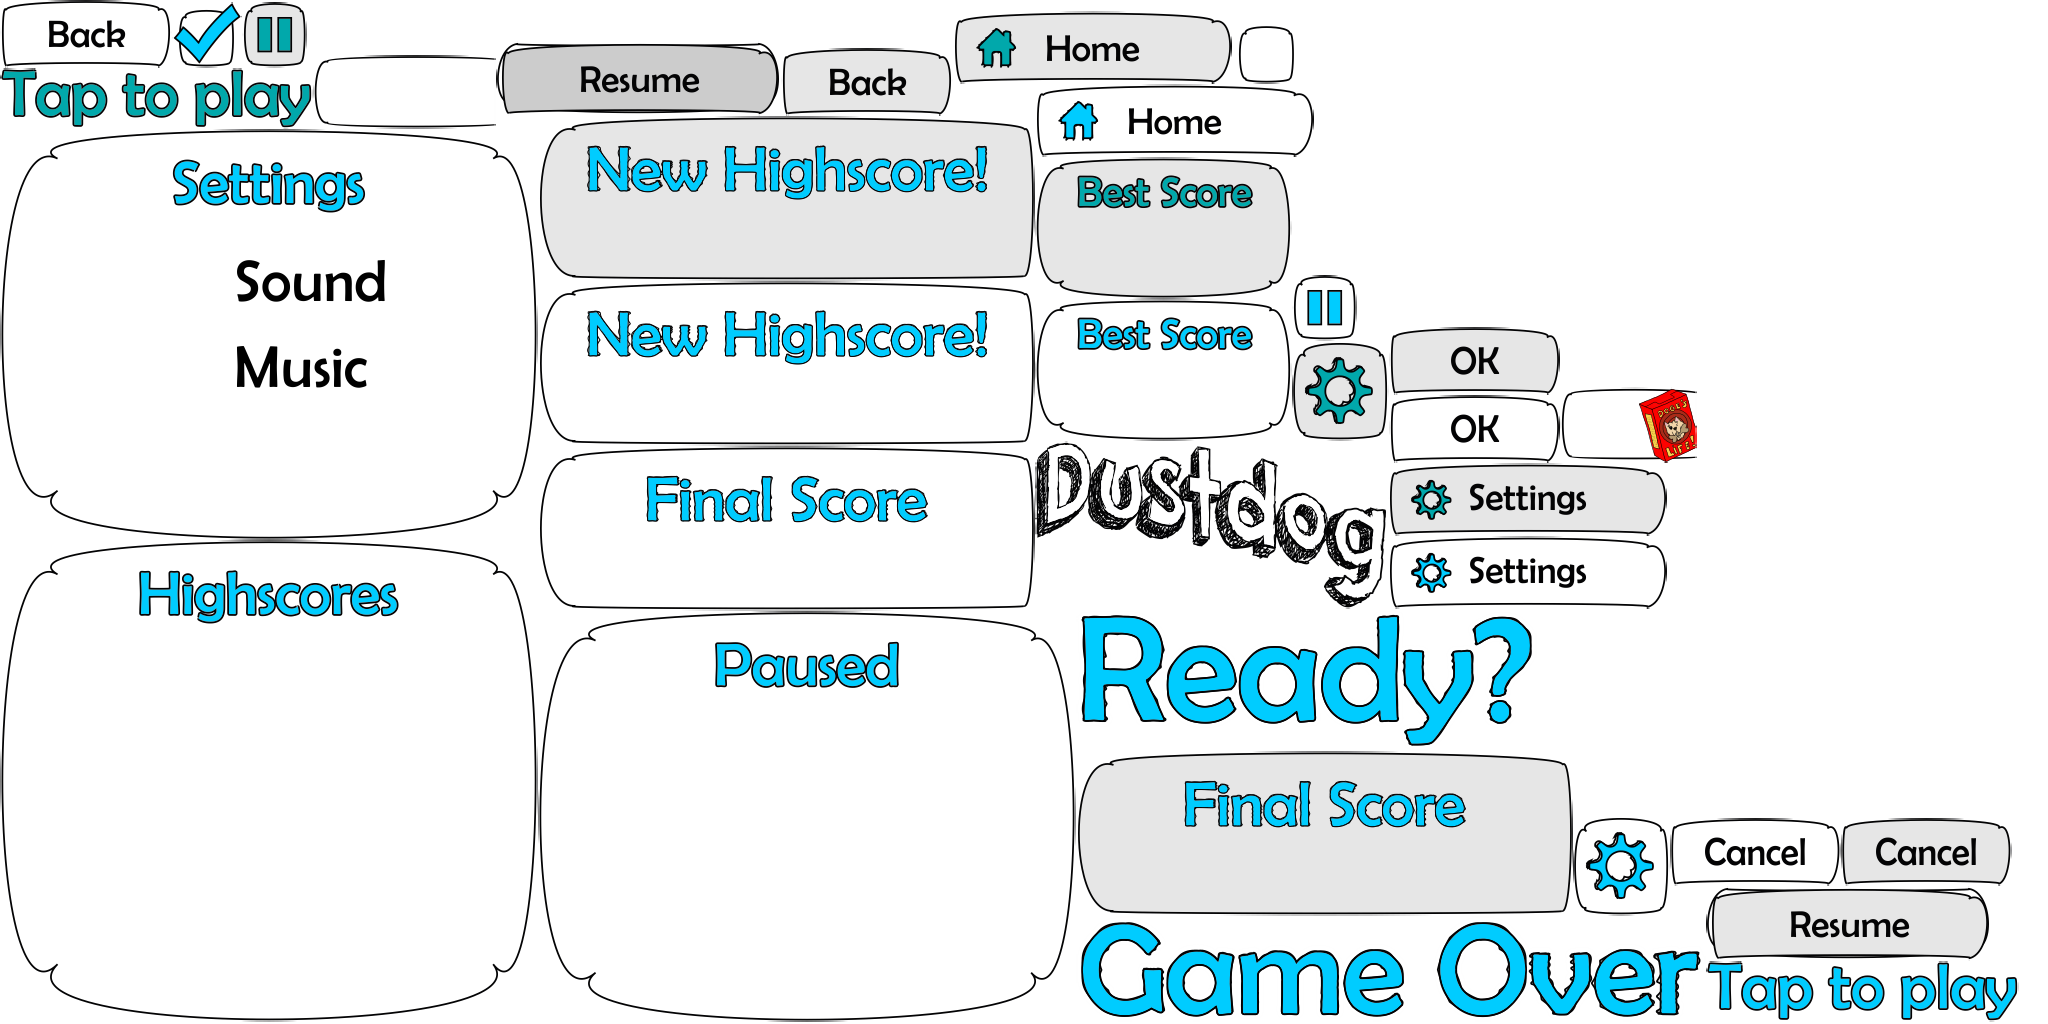
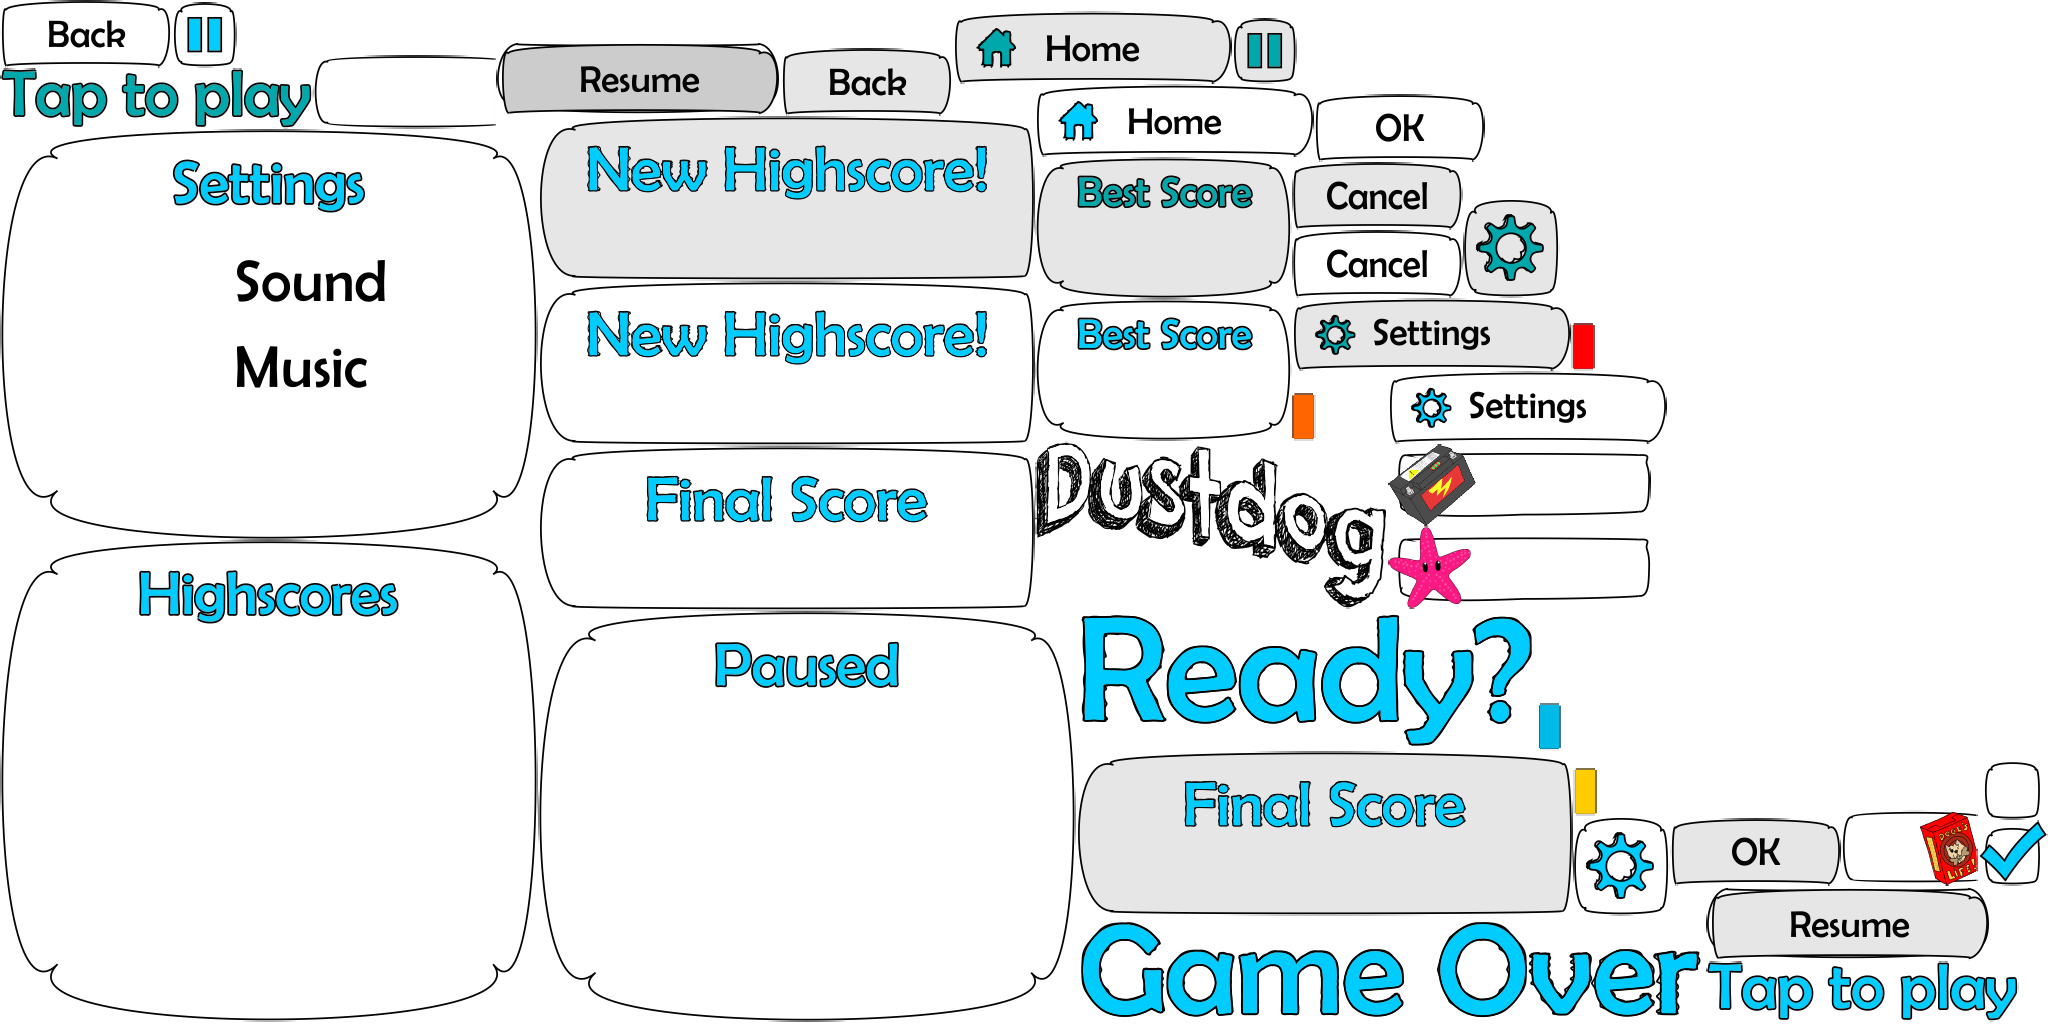
Implement power-up time bars

diff --git a/core/src/br/ufpe/cin/dustdog/screens/GameScreen.java b/core/src/br/ufpe/cin/dustdog/screens/GameScreen.java
@@ -16,6 +16,7 @@ import com.badlogic.gdx.Gdx;
 import com.badlogic.gdx.ScreenAdapter;
 import com.badlogic.gdx.graphics.GL20;
 import com.badlogic.gdx.graphics.OrthographicCamera;
+import com.badlogic.gdx.graphics.g2d.TextureRegion;
 import com.badlogic.gdx.math.Rectangle;
 import com.badlogic.gdx.math.Vector3;
 
@@ -197,11 +198,11 @@ public class GameScreen extends ScreenAdapter {
 				pauseButtonActive = false;
 				Assets.playSound(Assets.clickSound);
 				gameState = GameState.PAUSED;
-				
+
 				// pause game musics (tornado and starfish)
 				if ((Settings.soundEnabled) && (world.tornadoRunning)) Assets.tornadoMusic.pause();
 				if ((Settings.soundEnabled) && (world.starfishRunning)) Assets.starfishMusic.pause();
-				
+
 				return;
 			}
 		}
@@ -214,11 +215,11 @@ public class GameScreen extends ScreenAdapter {
 			Assets.playSound(Assets.clickSound);
 
 			gameState = GameState.PAUSED;
-			
+
 			// pause game musics (tornado and starfish)
 			if ((Settings.soundEnabled) && (world.tornadoRunning)) Assets.tornadoMusic.pause();
 			if ((Settings.soundEnabled) && (world.starfishRunning)) Assets.starfishMusic.pause();
-			
+
 			return;
 		}
 
@@ -303,11 +304,11 @@ public class GameScreen extends ScreenAdapter {
 			backPressedPaused = false;
 
 			gameState = GameState.RUNNING;
-			
+
 			// resume game musics (tornado and starfish)
 			if ((Settings.soundEnabled) && (world.tornadoRunning)) Assets.tornadoMusic.play();
 			if ((Settings.soundEnabled) && (world.starfishRunning)) Assets.starfishMusic.play();
-						
+
 			return;
 		}
 
@@ -315,11 +316,11 @@ public class GameScreen extends ScreenAdapter {
 			resumeButtonActive = false;
 			Assets.playSound(Assets.clickSound);
 			gameState = GameState.RUNNING;
-			
+
 			// resume game musics (tornado and starfish)
 			if ((Settings.soundEnabled) && (world.tornadoRunning)) Assets.tornadoMusic.play();
 			if ((Settings.soundEnabled) && (world.starfishRunning)) Assets.starfishMusic.play();
-			
+
 			return;
 		}
 
@@ -424,6 +425,47 @@ public class GameScreen extends ScreenAdapter {
 
 		game.batcher.draw(Assets.gameScreenBonesBox, 547, 855);
 		Assets.font48.draw(game.batcher, Integer.toString(world.spot.numberLives), 585, 910);
+
+		// if tornado is running, draw time bar
+		if (world.tornadoRunning) {
+			float timeByBar = World.TORNADO_DURATION/6;
+			float remainingTime = World.TORNADO_DURATION - world.tornadoRunningTimeSpent;
+			int numberBars = (int) Math.ceil(remainingTime/timeByBar);
+
+			game.batcher.draw(Assets.gameScreenCarBatteryLoadingBar, 2, 855);
+
+			for (int i = 0; i < numberBars; i++) {
+				game.batcher.draw(getTimeBar(numberBars), 95 + (i*25) , 872);
+			}
+		}
+
+		// if starfish is running, draw time bar
+		if (world.starfishRunning) {
+			float timeByBar = World.STARFISH_DURATION/6;
+			float remainingTime = World.STARFISH_DURATION - world.spotCollisionTimeSpent;
+			int numberBars = (int) Math.ceil(remainingTime/timeByBar);
+
+			game.batcher.draw(Assets.gameScreenStarfishLoadingBar, 2, 855);
+
+			for (int i = 0; i < numberBars; i++) {
+				game.batcher.draw(getTimeBar(numberBars), 95 + (i*25) , 871);
+			}
+		}
+	}
+
+	private TextureRegion getTimeBar(int numberBars) {
+		if (numberBars < 2) {
+			return Assets.gameScreenRedBar;
+		}
+		else if (numberBars < 3) {
+			return Assets.gameScreenOrangeBar;
+		}
+		else if (numberBars < 5) {
+			return Assets.gameScreenYellowBar;
+		}
+		else {
+			return Assets.gameScreenBlueBar;
+		}
 	}
 
 	private void presentPaused() {
@@ -482,7 +524,7 @@ public class GameScreen extends ScreenAdapter {
 			// pause game musics (tornado and starfish)
 			if ((Settings.soundEnabled) && (world.tornadoRunning)) Assets.tornadoMusic.pause();
 			if ((Settings.soundEnabled) && (world.starfishRunning)) Assets.starfishMusic.pause();
-			
+
 			gameState = GameState.PAUSED;
 		}
 	}

diff --git a/core/src/br/ufpe/cin/dustdog/world/World.java b/core/src/br/ufpe/cin/dustdog/world/World.java
@@ -80,7 +80,6 @@ public class World {
 	public float tornadoRunningTimeSpent;
 	
 	public boolean starfishRunning;
-	public float starfishRunningTimeSpent;
 
 	public Random random;
 	public float timeSpentSinceLastBark;
@@ -582,8 +581,22 @@ public class World {
 
 			if (specialItem instanceof CookieBox) {
 				specialItemHeight = CookieBox.COOKIE_BOX_HEIGHT;
-				
-				// Checking if Cookie Box is in tornado area
+			}
+
+			if (specialItem instanceof CarBattery) {
+				specialItemHeight = CarBattery.CAR_BATTERY_HEIGHT;
+			}
+			
+			if (specialItem instanceof Starfish) {
+				specialItemHeight = Starfish.STARFISH_HEIGHT;
+			}
+
+			if (specialItem instanceof Tornado) {
+				specialItem.position.x = spot.position.x + (Spot.SPOT_WIDTH - Tornado.TORNADO_WIDTH)/2;
+				specialItem.position.y = spot.position.y + 2*Spot.SPOT_HEIGHT/3;
+			}
+			else {
+				// Checking if special item (which is not tornado itself) is in tornado area
 				if (tornadoRunning) {
 					// cookie box is front of spot
 					if ((specialItem.laneState == spot.laneState) && 
@@ -626,19 +639,6 @@ public class World {
 						break;
 					}
 				}
-			}
-
-			if (specialItem instanceof CarBattery) {
-				specialItemHeight = CarBattery.CAR_BATTERY_HEIGHT;
-			}
-			
-			if (specialItem instanceof Starfish) {
-				specialItemHeight = Starfish.STARFISH_HEIGHT;
-			}
-
-			if (specialItem instanceof Tornado) {
-				specialItem.position.x = spot.position.x + (Spot.SPOT_WIDTH - Tornado.TORNADO_WIDTH)/2;
-				specialItem.position.y = spot.position.y + 2*Spot.SPOT_HEIGHT/3;
 			}
 			
 			specialItem.update(deltaTime);
@@ -1443,7 +1443,6 @@ public class World {
 						
 						starfishRunning = true;
 						spotCollision = true; // set true to make spot to blink
-						starfishRunningTimeSpent = 0;
 						spotCollisionTimeSpent = 0;
 						
 						if (Settings.soundEnabled) Assets.starfishMusic.play();

diff --git a/core/src/br/ufpe/cin/dustdog/Assets.java b/core/src/br/ufpe/cin/dustdog/Assets.java
@@ -66,7 +66,13 @@ public class Assets {
 	public static TextureRegion gameScreenGameOverScoreBoxActive;
 	public static TextureRegion gameScreenHighscoreBox;
 	public static TextureRegion gameScreenHighscoreBoxActive;
-
+	public static TextureRegion gameScreenCarBatteryLoadingBar;
+	public static TextureRegion gameScreenStarfishLoadingBar;
+	public static TextureRegion gameScreenBlueBar;
+	public static TextureRegion gameScreenYellowBar;
+	public static TextureRegion gameScreenOrangeBar;
+	public static TextureRegion gameScreenRedBar;
+	
 	public static TextureRegion spotForwardA;
 	public static TextureRegion spotForwardB;
 	public static TextureRegion spotForwardC;
@@ -193,6 +199,12 @@ public class Assets {
 		gameScreenGameOverScoreBoxActive = screenItemsAtlas.findRegion("box_final_score_active");
 		gameScreenHighscoreBox = screenItemsAtlas.findRegion("box_new_highscore");
 		gameScreenHighscoreBoxActive = screenItemsAtlas.findRegion("box_new_highscore_active");
+		gameScreenCarBatteryLoadingBar = screenItemsAtlas.findRegion("loading_bar_battery");
+		gameScreenStarfishLoadingBar = screenItemsAtlas.findRegion("loading_bar_star");
+		gameScreenBlueBar = screenItemsAtlas.findRegion("blue_bar");
+		gameScreenYellowBar = screenItemsAtlas.findRegion("yellow_bar");
+		gameScreenOrangeBar = screenItemsAtlas.findRegion("orange_bar");
+		gameScreenRedBar = screenItemsAtlas.findRegion("red_bar");
 
 		spotForwardA = gameItemsAtlas.findRegion("spot_forward_a");
 		spotForwardB = gameItemsAtlas.findRegion("spot_forward_b");
@@ -257,7 +269,7 @@ public class Assets {
 
 		music = Gdx.audio.newMusic(Gdx.files.internal("sounds/soundtrack_loop.mp3"));
 		music.setLooping(true);
-		music.setVolume(0.3f);
+		music.setVolume(0.2f);
 		
 		if (Settings.musicEnabled) music.play();
 		
